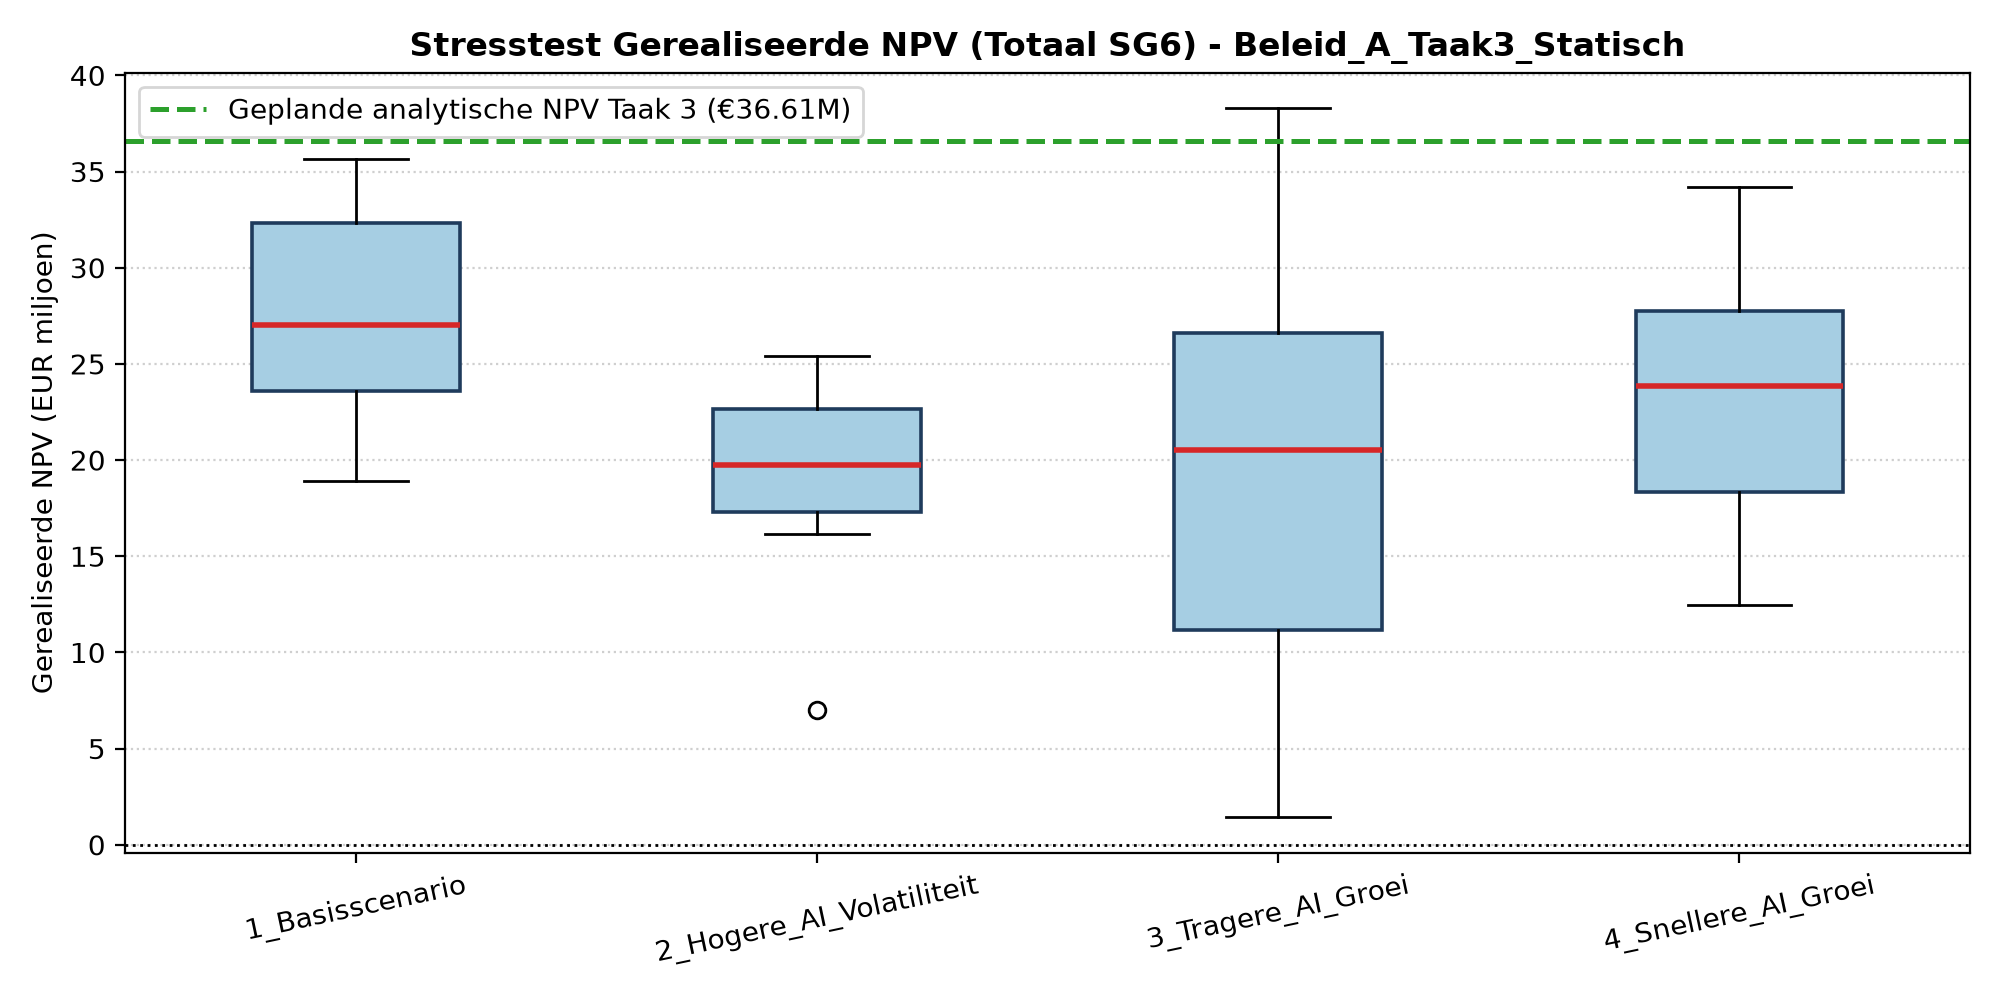
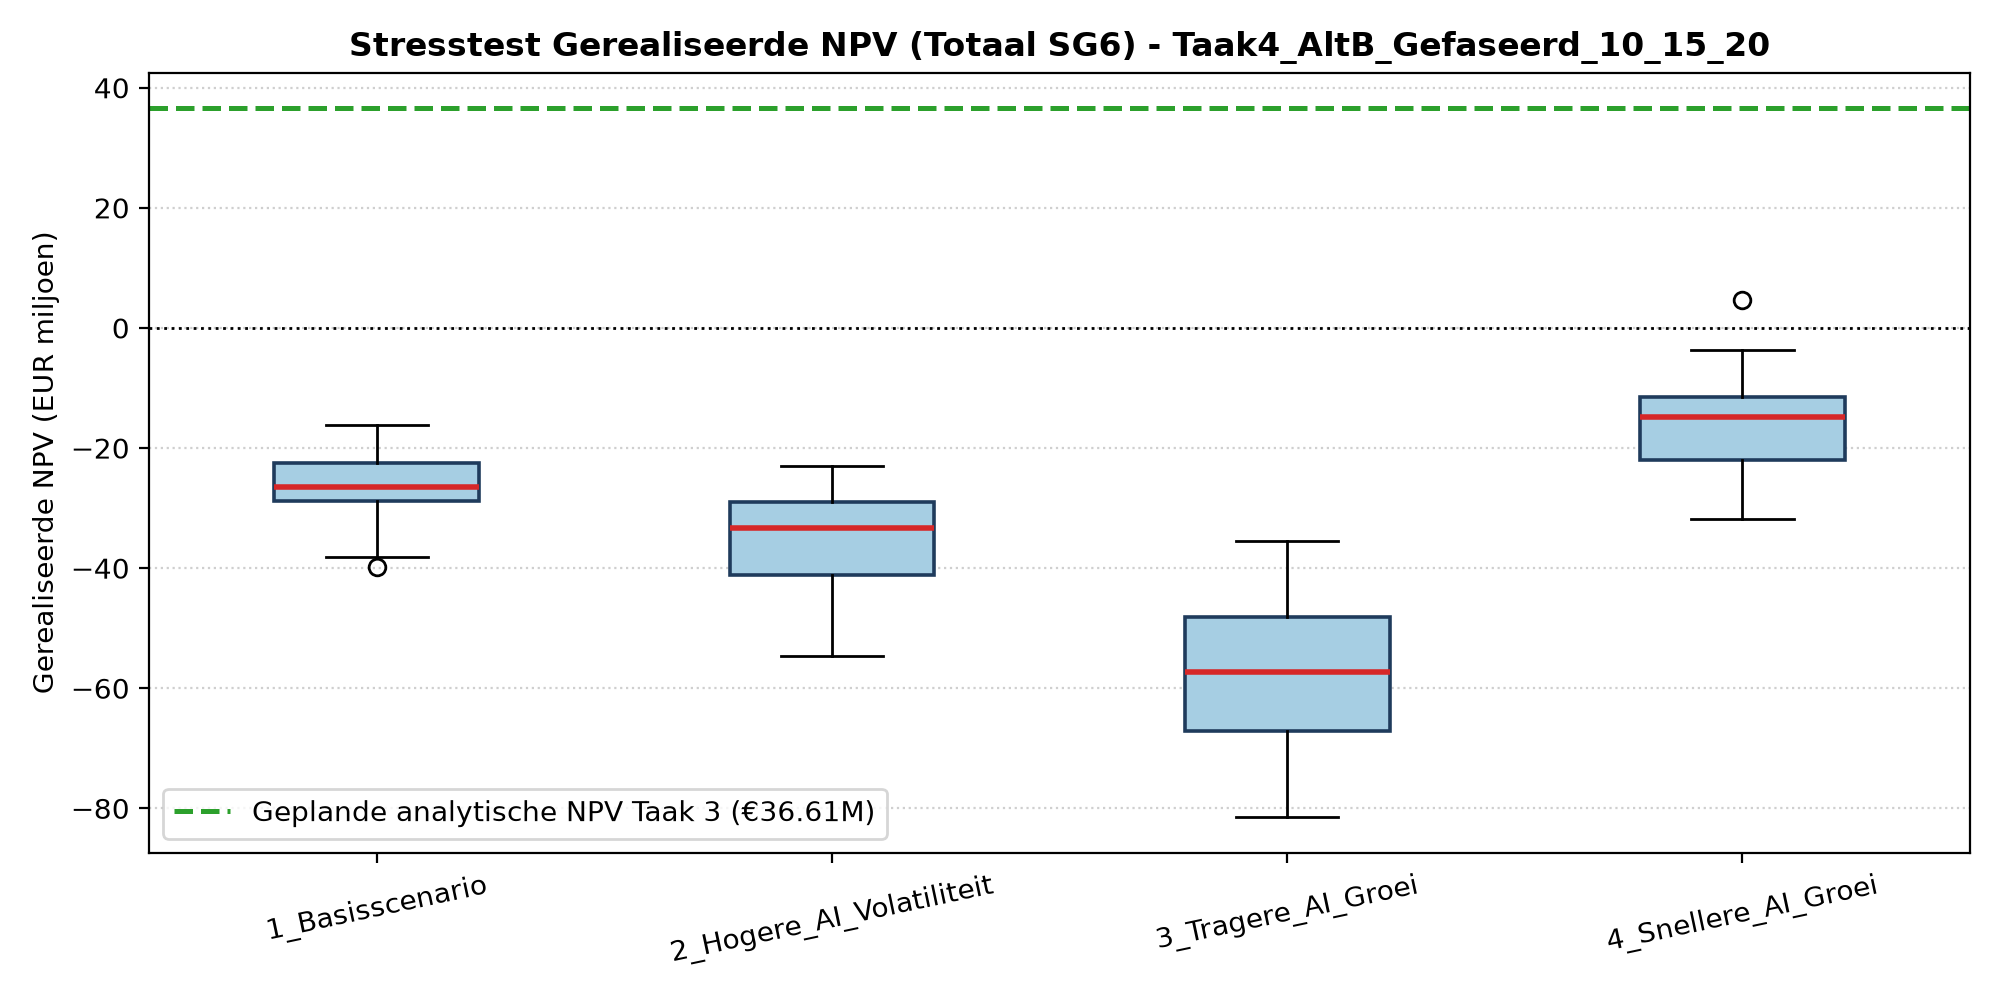
taak 4 af

diff --git a/equinix_sg6_taak5_simulatie.py b/equinix_sg6_taak5_simulatie.py
@@ -71,18 +71,19 @@ CONFIG = {
     #           Opmerking: extra capaciteit Delta_K in jaar t (>1) wordt verdisconteerd
     #           aan het begin van jaar t, dus met factor 1 / (1 + r)^(t - 1).
     "policies": {
-        "Beleid_A_Taak3_Statisch": {
+        "Taak3_Statisch_10_4MW": {
             "Cloud": [5.39] * 10,
             "AI":    [5.01] * 10,
         },
-        "Beleid_B_Taak4_Placeholder": {
-            # Voorbeeld: start met Fase 1 (5,00 MW Cloud + 3,00 MW AI = 8,00 MW)
-            # en breid uit in jaar 5 naar 6,50 MW Cloud + 8,00 MW AI (= 14,50 MW).
-            "Cloud": [5.00, 5.00, 5.00, 5.00, 6.50, 6.50, 6.50, 6.50, 6.50, 6.50],
-            "AI":    [3.00, 3.00, 3.00, 3.00, 8.00, 8.00, 8.00, 8.00, 8.00, 8.00],
+        "Taak4_AltA_20MW_Ineens": {
+            "Cloud": [7.00] * 10,
+            "AI":    [13.00] * 10,
+        },
+        "Taak4_AltB_Gefaseerd_10_15_20": {
+            "Cloud": [5.50, 5.50, 5.50, 6.50, 6.50, 6.50, 6.50, 6.50, 7.00, 7.00],
+            "AI":    [4.50, 4.50, 4.50, 8.50, 8.50, 8.50, 8.50, 8.50, 13.00, 13.00],
         },
     },
-
     # -------------------------------------------------------------------------
     # STRESSTEST-SCENARIO'S (afwijkende vraagveronderstellingen voor Taak 5)
     # -------------------------------------------------------------------------
@@ -518,13 +519,13 @@ def main() -> None:
     plot_demand_paths(
         CONFIG,
         demand_base_10,
-        policy_name="Beleid_A_Taak3_Statisch",
+        policy_name="Taak4_AltB_Gefaseerd_10_15_20",
         filepath=CONFIG["output_plot_paths"],
     )
     plot_npv_stresstest(
         df_all_paths,
         planned_npv_total=analytical["Totaal"]["planned_NPV"],
-        policy_name="Beleid_A_Taak3_Statisch",
+        policy_name="Taak4_AltB_Gefaseerd_10_15_20",
         filepath=CONFIG["output_plot_npv"],
     )
     print(f"[6] Grafieken opgeslagen als '{CONFIG['output_plot_paths']}' en '{CONFIG['output_plot_npv']}'.")
